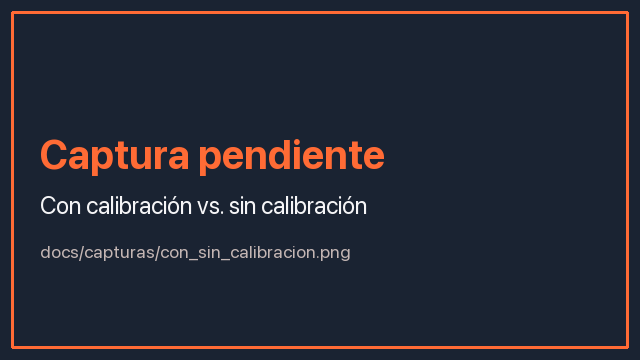
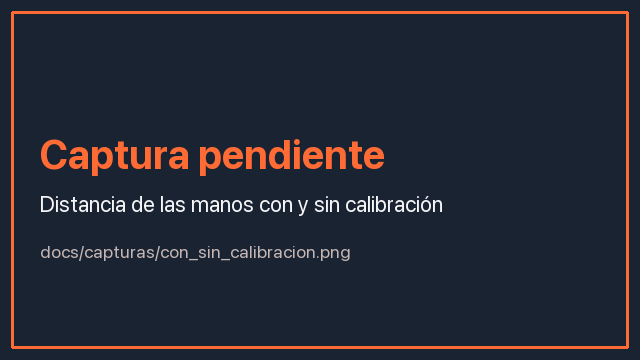
docs: arquitectura, guion del video y capturas para el modo pantalla

Changed region(s): [[0.0625, 0.5194, 0.6875, 0.6111]]

diff --git a/docs/guion_video.md b/docs/guion_video.md
@@ -3,111 +3,103 @@
 **Voley AR – Proyecto final de Visión Artificial · Jorge Enrique Olaya Liévano**
 
 Preparación antes de grabar:
-- Imprime `cancha.pdf` y `tablero.pdf` al 100 %. Ten a mano el tablero pegado en cartón y una regla.
+- Imprime `tablero.pdf` al 100 % y pégalo en cartón. Ten una regla a mano.
+- Consigue un segundo jugador para la partida de dos (o usa el modo contra la IA).
+- Buena luz blanca y mangas largas oscuras.
 - Deja abiertos en VS Code los archivos que se van a mostrar (lista en cada bloque).
-- Ten la UI corriendo (`python app.py`) y el juego listo para lanzar (`python jugar.py`).
-- Graba la pantalla y una toma de la mesa si puedes (con el celular, desde arriba).
+- Ten la UI corriendo (`python app.py`) y el juego listo (`python jugar.py --modo 2j`).
 
 ---
 
 ## 0:00-0:40 · Introducción
 
-**En pantalla:** la cancha impresa sobre la mesa y el juego corriendo unos segundos.
+**En pantalla:** unos segundos de partida de dos jugadores, cada uno en su mitad.
 
-> "Este es Voley AR: un minijuego de voleibol en realidad aumentada sobre la mesa. La cámara reconoce esta cancha
-> impresa por sus marcadores ArUco y dibuja encima la red y un balón en 3D. Juego con mi mano, sin ningún objeto,
-> contra una IA. La idea central es que la calibración de la cámara es indispensable, y que cada tema del curso
-> cumple una función real en el juego."
+> "Este es Voley AR: voleibol en realidad aumentada para dos jugadores frente a una sola cámara web. No hay nada
+> impreso ni ningún objeto: la cancha, la red y el balón se dibujan en la pantalla y lo único real son nuestras manos.
+> Cada tema del curso cumple una función en el juego, y la calibración de la cámara es la que une lo real con lo
+> virtual."
 
 ## 0:40-1:40 · Arquitectura
 
-**En pantalla:** README en GitHub, sección *Arquitectura* (diagrama de capas y del pipeline) y la estructura de carpetas.
+**En pantalla:** README → *Arquitectura* (diagrama de capas y del pipeline) y la estructura de carpetas.
 
-> "El código está en capas. `core` tiene un módulo por tema, todos como funciones puras: entra una imagen y salen
-> una imagen o datos. `juego` tiene la física, la IA y el render. La UI de Gradio y la ventana del juego son dos
-> presentaciones del mismo pipeline: `core/pipeline.py`, función `procesar_frame`."
+> "El código está en capas. `core` tiene un módulo por tema, todos como funciones puras. `juego` tiene la física, las
+> reglas y el render. La UI de Gradio, la ventana de OpenCV y el juego en el navegador son tres presentaciones del mismo
+> pipeline: `core/pipeline.py`, función `procesar_frame`, que procesa una mano por cada mitad de la imagen."
 
-- Mostrar `voleyar/core/pipeline.py` → `procesar_frame` (recorrer las etapas con el cursor).
-- Mencionar la estrategia de ramas: diagrama `gitGraph` del README y `git log --graph --oneline` en la terminal
-  (main, develop, una rama `feature/` por tema, merges `--no-ff`, tag `v1.0.0`).
+- Mostrar `voleyar/core/pipeline.py` → `procesar_frame` y `_procesar_mano`.
+- Mostrar la estrategia de ramas: diagrama `gitGraph` y `git log --graph --oneline` (ramas `feature/` por tema, merges
+  `--no-ff`, tags v1.0.0, v1.1.0 y v2.0.0, y la rama `feature/multijugador`).
 
 ## 1:40-3:00 · Calibración en vivo con el tablero
 
-**En pantalla:** terminal con `python scripts/calibrar_camara.py --cuadro 2.5`.
+**En pantalla:** `python scripts/calibrar_camara.py --cuadro 2.5`.
 
-1. Medir el cuadro del tablero con la regla frente a la cámara (25 mm).
-2. Mover el tablero: mostrar el aviso "Tablero detectado", el contador de vistas y la sugerencia ("inclina el
-   tablero…", "llévalo a la esquina…"). Activar la captura automática con `A`.
-3. Pulsar `C`: mostrar `K`, los coeficientes de distorsión y el **error de reproyección** (< 0.5 px), y la ventana
-   original vs. sin distorsión.
+1. Medir el cuadro con la regla frente a la cámara.
+2. Mover el tablero: el aviso "Tablero detectado", el contador de vistas y la sugerencia. Activar la captura
+   automática con `A`.
+3. Pulsar `C`: mostrar `K`, la distorsión, el **error de reproyección** (< 0.5 px) y la ventana sin distorsión.
 
-> "La calibración de Zhang usa varias vistas del tablero plano para despejar la matriz K y la distorsión. Por eso se
-> piden ángulos variados: vistas paralelas no dicen nada sobre la focal."
-
-**Código a mostrar:** `voleyar/core/calibracion.py` → docstring del módulo (pinhole, intrínsecos/extrínsecos,
-distorsión), `calibrar_camara`, `GestorCapturaCalibracion.sugerencia`, `estimar_pose_cancha` y `pixel_a_mesa`.
+**Código a mostrar:** `voleyar/core/calibracion.py` → docstring (pinhole, intrínsecos/extrínsecos, distorsión),
+`calibrar_camara`, `camara_virtual` y `distancia_por_tamano`.
 
 ## 3:00-3:50 · Con calibración vs. sin calibración
 
-**En pantalla:** UI → pestaña **Calibración → Cancha: con y sin calibración**, con la cámara en vivo sobre la cancha.
+**En pantalla:** UI → **Calibración → Distancia de la mano: con y sin calibración**, con la cámara en vivo y la mano
+abierta.
 
-1. Modo *Ambos*: el contorno naranja (calibrado) cae sobre las líneas impresas; el blanco (sin calibrar) se corre,
-   sobre todo el borde de la red y el balón, que tienen altura.
-2. Señalar la tabla con el error de reproyección de las esquinas ArUco en ambos modos.
-3. Subir el slider de altura del balón: la diferencia crece con la altura.
+> "Sin cancha impresa, ¿para qué la calibración? Para tres cosas: corregir la distorsión, construir la cámara virtual
+> con la que se dibuja la cancha y, sobre todo, medir a qué distancia está cada mano: Z = f por el tamaño de la palma
+> dividido por su tamaño en píxeles. Con la K calibrada la mano está a unos 60 cm; con la K aproximada el juego cree
+> que está a más de 75. Por eso un golpe solo vale si la mano está en su plano de juego."
 
-> "Sin calibrar, solvePnP compensa la K equivocada con una pose falsa: lo plano casi encaja, pero lo que tiene
-> altura flota. Por eso el juego necesita la K de mi cámara."
+- Mostrar la escena de ejemplo (56/61 cm frente a 77/83 cm, con reales de 60/64) y luego tu mano en vivo.
+- Mencionar la subpestaña **Pose con ArUco (demo de la v1)**: `solvePnP` sigue en el código.
 
 ## 3:50-6:30 · Recorrido por los temas (código + UI)
 
-Por cada tema: unos 20-25 s en la UI y unos 5-10 s en el código.
-
-| Tiempo | Pestaña de la UI | Qué mostrar | Archivo / función |
+| Tiempo | Pestaña | Qué mostrar | Archivo / función |
 |---|---|---|---|
-| 3:50 | **Filtros** | Ejemplo *Poca luz*: subir el ruido, comparar gaussiano/mediana/bilateral (tabla de ruido antes/después); Sobel y Canny; escribir un núcleo propio y ver "Diferencia máxima manual vs. filter2D ≈ 1e-6". | `core/filtros.py` → `convolucion_manual` (por qué se voltea el núcleo) |
-| 4:15 | **Histogramas** | Mover el recuadro sobre la palma, ver los histogramas H-S y Cr-Cb y la retroproyección; pulsar "Usar este recuadro como modelo de piel". Ecualización vs. CLAHE con sus histogramas. | `core/histogramas.py` → `calibrar_piel`, `retroproyeccion`, `aplicar_clahe` |
-| 4:40 | **Umbralización** | Rangos HSV vs. YCrCb (tabla de IoU), curva de varianza entre clases con T*, "Otsu manual = OpenCV: coinciden", adaptativo. | `core/umbralizacion.py` → `otsu_manual` |
-| 5:00 | **Morfología** | Ruido sal y pimienta; apertura (componentes: miles → 1); cierre; mosaico de las 5 operaciones; cambiar forma/tamaño del elemento. | `core/morfologia.py` → `limpiar_mascara`, `erosion_manual` |
-| 5:20 | **Segmentación** | Ejemplo *Mano tocando un objeto color piel*: zona por la pose, contornos, corte por la muñeca en la vista cenital, transformada de distancia y watershed separando la mano del objeto. | `core/segmentacion.py` → `zona_busqueda`, `separar_mano_brazo`, `watershed_mano` |
-| 5:45 | **Caracterización** | Ejemplos *Un dedo*, *Dos dedos*, *Puño*: casco convexo, valles, puntas, tabla de descriptores (cm², Hu) y gesto → golpe. Con la cámara en vivo, mostrar la velocidad. | `core/caracterizacion.py` → `analizar_mano`, `descriptores_forma` |
-| 6:10 | **Pipeline** | Los 9 pasos sobre el mismo frame y la tabla de tiempos (~10-15 ms). | `core/pipeline.py` |
+| 3:50 | **Filtros** | Ejemplo *Poca luz*: ruido, gaussiano/mediana/bilateral, Sobel y Canny; un núcleo propio con "Diferencia máxima ≈ 1e-6". | `core/filtros.py` → `convolucion_manual` |
+| 4:15 | **Histogramas** | Recuadro sobre la palma del jugador 1, histogramas H-S y Cr-Cb, retroproyección; "¿De quién es esta piel?" → Jugador 1, luego Jugador 2. CLAHE. | `core/histogramas.py` → `calibrar_piel`, `retroproyeccion` |
+| 4:40 | **Umbralización** | Mitad de cada jugador: rangos HSV vs. YCrCb, curva de Otsu con T*, "coinciden", adaptativo y tabla de IoU. | `core/umbralizacion.py` → `otsu_manual` |
+| 5:00 | **Morfología** | Ruido sal y pimienta → apertura (miles de componentes → pocas), cierre, las 5 operaciones. | `core/morfologia.py` → `limpiar_mascara` |
+| 5:20 | **Segmentación** | Ejemplo *Mano delante de la cara*: mitades, cara de Haar, contorno elegido, corte por la muñeca y watershed separando la mano de la cara. | `core/segmentacion.py` → `detectar_caras`, `separar_de_la_cara`, `separar_mano_brazo` |
+| 5:45 | **Caracterización** | Jugador 1 y 2: casco convexo, valles, puntas, descriptores (cm² con Z/f) y gesto → golpe. | `core/caracterizacion.py` → `analizar_mano` |
+| 6:10 | **Pipeline** | Los 9 pasos sobre el mismo frame y la tabla de tiempos. | `core/pipeline.py` |
 
 ## 6:30-7:30 · Transformers: clásico vs. OWLv2 y profundidad
 
-**En pantalla:** UI → pestaña **Transformers**, con la cámara en vivo.
+**En pantalla:** UI → **Transformers**, con la cámara en vivo y los dos jugadores.
 
-1. Depth Anything: mapa de profundidad y puntaje de altura. Apoyar la mano (verde, "golpe válido") y levantarla
-   (rojo, "mano levantada").
-2. Comparación sobre el mismo frame: caja clásica (naranja) vs. OWLv2 (verde), tabla de latencias (~12 ms vs.
-   ~500 ms), IoU y diferencia en cm.
+1. Depth Anything: mapa de profundidad y, por jugador, "mano delante del cuerpo: golpe válido".
+2. Comparación por mitad: cajas clásicas (naranja) vs. OWLv2 (verde), latencias (~25 ms vs. ~500 ms), IoU y
+   diferencia en cm.
 
-> "Uso los transformers solo en inferencia, con pesos públicos. Depth Anything es lento por frame, así que en el juego
-> corre en un hilo aparte cada 8 frames: la altura de la mano cambia más despacio que su posición. OWLv2 no necesita
-> calibrar la piel, pero es unas 40 veces más lento; por eso el detector principal es el clásico."
+**Código a mostrar:** `core/transformers_models.py` → `mano_delante_de_la_cara` y `estimar_profundidad` (decorador
+`gpu` de `voleyar/entorno.py` para ZeroGPU).
 
-**Código a mostrar:** `core/transformers_models.py` → `mano_cerca_de_mesa` (la fórmula del puntaje) y
-`DetectorManoOWL.detectar`; `juego/asincrono.py` → `TrabajadorAsincrono`.
+## 7:30-9:30 · Partida de dos jugadores con el panel de depuración
 
-## 7:30-9:30 · Partida con el panel de depuración
+**En pantalla:** `python jugar.py --modo 2j`.
 
-**En pantalla:** `python jugar.py` (o el botón de la pestaña **Jugar**).
+1. Calibración de la piel: cada jugador cubre su recuadro naranja y se pulsa `ESPACIO`.
+2. Señalar arriba de cada mitad "midiendo…" → "plano a 60 cm" (la distancia de referencia de cada jugador).
+3. Activar `D`: máscaras (mano blanca, brazo naranja, caras rojas), retroproyección de cada jugador, profundidad,
+   distancias y tiempos.
+4. Jugar un par de puntos: un **remate** con la mano abierta, un **toque** con un dedo. Mostrar un golpe inválido
+   acercando mucho la mano a la cámara (punto rojo).
+5. Pulsar `C`: sin calibración la distancia medida cambia y los golpes empiezan a salir inválidos. Volver a `C`.
+6. Mostrar 20 s del juego en el Space (pestaña **Jugar → En el navegador**).
 
-1. Calibración de la piel: cubrir el recuadro naranja y pulsar `ESPACIO`.
-2. Activar `D`: señalar la máscara de piel (brazo en naranja), la vista cenital con los dedos, el mapa de
-   profundidad, la pose (ejes), los FPS y los tiempos.
-3. Jugar un par de puntos: un **remate** con la mano abierta y un **toque** con un dedo; mostrar el anillo verde del
-   golpe válido y uno rojo levantando la mano.
-4. Pulsar `C` durante la partida: sin calibración la red y el balón se desalinean. Volver a pulsar `C`.
-5. Pulsar `O` unos segundos para jugar con OWLv2 y notar la latencia.
-
-**Código a mostrar (breve):** `juego/partida.py` → `_intentar_golpe` (rayo vs. balón y profundidad),
-`juego/render_ar.py` → `ocluir_con_mano`.
+**Código a mostrar (breve):** `juego/partida.py` → `_intentar_golpe` y `juego/bucle.py` → `_validar`.
 
 ## 9:30-10:00 · Cierre
 
-**En pantalla:** README → *Limitaciones* y *Pruebas* (`pytest` en verde en la terminal).
+**En pantalla:** README → *Limitaciones* y `pytest` en verde.
 
-> "Las pruebas usan escenas sintéticas de verdad conocida: la calibración recupera K, solvePnP la pose, Otsu y la
-> convolución coinciden con OpenCV, los descriptores con scikit-image, y los dedos se cuentan bien. Las limitaciones
-> principales son la luz, las mesas de madera y que la mano no tape todos los marcadores. Gracias."
+> "Las pruebas usan escenas sintéticas de verdad conocida: dos personas a distancias conocidas, caras detectables y
+> cámaras con distorsión. La calibración recupera K, la distancia de la mano sale con ±4 % de error calibrada y con
+> ~30 % sin calibrar. Las limitaciones principales son la luz, la ropa de color piel y que Haar detecta peor las caras
+> de piel oscura. Gracias."

diff --git a/docs/arquitectura.md b/docs/arquitectura.md
@@ -1,4 +1,4 @@
-# Arquitectura de Voley AR
+# Arquitectura de Voley AR (v2, modo pantalla)
 
 Este documento amplía la sección de arquitectura del [README](../README.md): sistemas de coordenadas, flujo de
 datos, concurrencia y las decisiones que se tomaron a partir de las pruebas.
@@ -7,102 +7,121 @@ datos, concurrencia y las decisiones que se tomaron a partir de las pruebas.
 
 | Capa | Paquete | Regla |
 |---|---|---|
-| Presentación | `voleyar/ui`, `voleyar/juego/bucle.py`, `app.py`, `jugar.py` | Maneja eventos, ventanas y widgets. No implementa visión. |
-| Dominio del juego | `voleyar/juego` (`fisica`, `ia_rival`, `partida`, `render_ar`) | Reglas y física en cm. `partida.py` no conoce la cámara. |
+| Presentación | `voleyar/ui`, `voleyar/juego/bucle.py`, `voleyar/juego/navegador.py`, `app.py`, `jugar.py` | Maneja eventos, ventanas y widgets. No implementa visión. |
+| Dominio del juego | `voleyar/juego` (`fisica`, `ia_rival`, `partida`, `render_ar`) | Reglas y física en unidades de la cancha. `partida.py` no conoce la cámara. |
 | Núcleo de visión | `voleyar/core` | Funciones puras: imagen in → imagen/datos out. Sin Gradio ni `imshow`. |
-| Infraestructura | `voleyar/utils` | Cámara, JSON, texto con tildes, escenas sintéticas. |
+| Infraestructura | `voleyar/utils`, `voleyar/entorno.py` | Cámara, JSON, texto con tildes, escenas sintéticas, detección de ZeroGPU. |
 
-La dependencia siempre va hacia abajo. La UI y el juego llaman a la **misma** función,
-`core.pipeline.procesar_frame`, así que lo que se ve en la pestaña Pipeline es lo que usa el juego.
+La dependencia siempre va hacia abajo. La UI, la ventana y el juego del navegador llaman a la **misma** función,
+`core.pipeline.procesar_frame`.
 
 ## 2. Sistemas de coordenadas
 
-- **Mesa** (cm): origen en el centro de la cancha impresa; X hacia el lado rival, Y hacia el borde superior de la
-  hoja y Z hacia arriba. Tu lado es `x < 0` y la red es el plano `x = 0` con `z ∈ [0, 5]`.
-- **Cámara**: `P_c = R P_w + t` (OpenCV: x a la derecha, y hacia abajo, z hacia adelante).
-- **Imagen** (px): `s [u v 1]ᵀ = K P_c`, con distorsión radial/tangencial.
-- **Vista cenital** (px): `u = (X − x_min)·ppcm`, `v = (y_max − Y)·ppcm`, con `ppcm = 10`. Se obtiene con la
-  homografía `H = A · (K [r₁ r₂ t])⁻¹`.
+- **Cámara real** (cm): `x` a la derecha, `y` hacia abajo, `z` hacia adelante. Las manos de los jugadores están a
+  `Z ≈ 50-75 cm`.
+- **Imagen** (px): `s [u v 1]ᵀ = K P_c`, con distorsión radial y tangencial. El pipeline trabaja sobre la imagen ya
+  corregida (`K'`, `d = 0`).
+- **Cancha virtual** (unidades de la cancha de la v1, 25 × 18 con red de 5): `x` de la mitad del jugador 1 (`x < 0`) a
+  la del jugador 2 (`x > 0`), `y` = profundidad (el balón siempre en `y = 0`, el plano de la red) y `z` hacia arriba
+  (piso en `z = 0`).
+- **Cámara virtual:** con la **misma** `K` mira horizontalmente la red desde `y = −D`
+  (`calibracion.camara_virtual`):
+  - `D = f_x · 2L / (0.92 · W)`, para que la cancha ocupe el 92 % del ancho;
+  - altura `h = (0.86·H − c_y) · D / f_y`, para que el piso quede en la fila del 86 %;
+  - desplazamiento lateral `−(W/2 − c_x)·D/f_x`, para que la red quede en la columna central.
 
-Todas las medidas de la cancha viven en `core/config.py` y las usan por igual el generador de PDF, el render
-sintético y la estimación de pose.
+  Así, un píxel de la mano y el balón virtual comparten geometría: el rayo de cada píxel se intersecta con el plano
+  `y = 0`.
 
 ## 3. Flujo de un frame
 
 ```
 frame (1280×720)
  └─ preparar_imagen ── reducción a 960 px; si hay calibración: remap(K, d) → imagen rectificada, K', d = 0
-     └─ detectar_marcadores + estimar_pose_cancha ── 16 esquinas ArUco, IPPE → refinamiento iterativo
-         (si no hay marcadores: se reutiliza la pose anterior hasta 20 frames)
-     └─ preprocesar ── CLAHE en L (Lab) + suavizado gaussiano 5×5
-     └─ zona_busqueda ── casco de la caja de la cancha (12 cm de alto) ∪ franja del brazo
-     └─ retroproyeccion ── √(B_HS · B_CrCb), disco de 7 px, solo dentro de la zona
-     └─ umbral_piel_otsu ── Otsu manual con el histograma de la zona (T ≥ 30)
-     └─ limpiar_mascara ── apertura 5 → cierre 5 → relleno de huecos
-     └─ seleccionar_mano ── componente que entra por la franja del brazo
-     └─ vista_cenital.rectificar ── máscara en cm
-     └─ separar_mano_brazo ── centro y radio de la palma (transformada de distancia), corte a 1.2 r
-         (si queda una región gruesa pegada → watershed y se repite)
-     └─ analizar_mano ── tramos del contorno a > 1.6 r = dedos; casco y defectos; gesto
-     └─ punto de golpe → imagen (H⁻¹) → rayo → ∩ z = 0 (cm); EstimadorVelocidad (cm/s)
+ └─ camara_virtual(K') ── pose de la cámara que encuadra la cancha
+ └─ detectar_caras (cada 3 frames) ── Viola-Jones a 640 px; una cara por mitad (≥ 20 % de la altura);
+     recordar_caras: si se pierde (la mano la tapa) se usa la última vista durante 90 frames
+ └─ preprocesar ── CLAHE en L (Lab) + suavizado gaussiano 5×5
+ └─ por cada mitad (jugador 1 = izquierda, jugador 2 = derecha):
+     ├─ retroproyeccion con la piel de ESE jugador (√(B_HS · B_CrCb), disco de 7 px)
+     ├─ umbral_piel_otsu (Otsu manual con el histograma de la mitad, T ≥ 30)
+     ├─ limpiar_mascara (apertura 5 → cierre 5 → relleno de huecos)
+     ├─ seleccionar_mano_pantalla: se descartan las regiones casi todo-cara; se prefiere la que toca el borde
+     │   inferior (antebrazo)
+     ├─ separar_de_la_cara (si toca una cara): watershed con marcadores cara / picos de la mano
+     ├─ separar_mano_brazo (transformada de distancia, corte a 1.2 r); watershed si queda una región gruesa
+     ├─ analizar_mano: tramos del contorno a > 1.6 r = dedos; casco y defectos; gesto y punto de golpe
+     ├─ distancia_por_tamano: Z = f · 3.5 cm / r_px
+     └─ pixel_a_plano(punto de golpe, cámara virtual) → (x, 0, z); EstimadorVelocidad → (vx, vz)
 ```
 
-`ResultadoFrame` guarda cada resultado intermedio. Así la UI y el panel de depuración los muestran sin recalcular,
-y `tiempos_ms` registra cuánto tardó cada etapa.
+`ResultadoFrame` guarda los resultados comunes (imagen, modelo, cámara virtual, caras, tiempos) y una `ResultadoMano`
+por lado con cada paso intermedio.
 
-## 4. Concurrencia en el juego
+## 4. Del pipeline a la partida
+
+Por cada mano se arma una `EntradaJugador`:
+
+- **rayo:** el rayo de la cámara virtual que pasa por el punto de golpe. La colisión es la distancia 3D entre ese rayo
+  y el centro del balón, menor que `r + 2.6`.
+- **punto y velocidad:** el punto en el plano de la red y su velocidad.
+- **fuerza y gesto:** salen del número de dedos.
+- **valida:** la mano está en el plano de juego. `|Z − Z_ref| ≤ max(10 cm, 25 % · Z_ref)`, donde `Z_ref` es la
+  mediana de las primeras 15 mediciones de ese jugador. Además, si Depth Anything tiene un resultado reciente, la mano
+  debe estar delante de su cara.
+
+`Partida` (modo `2j` o `ia`) solo acepta golpes de cada jugador en su mitad, con un toque por lado. En el saque solo
+golpea quien saca.
+
+## 5. Concurrencia (escritorio)
 
 ```
-hilo principal (≈ 25 FPS)            hilo "profundidad"                 hilo "owl" (tecla O)
-─────────────────────────            ──────────────────                 ────────────────────
-leer frame                           espera tarea
-procesar_frame (≈ 12 ms)
-cada 8 frames: enviar(img, máscaras) ─► Depth Anything (~110 ms)
-partida.actualizar(dt, entrada)        mano_cerca_de_mesa → resultado
-render + HUD                          ◄─ resultado (si edad < 1 s)
-imshow / waitKey
+hilo principal (≈ 20-30 FPS)          hilo "profundidad"                 hilo "owl" (tecla O)
+────────────────────────────          ──────────────────                 ────────────────────
+leer frame
+procesar_frame, 2 manos (≈ 22 ms)
+cada 8 frames: enviar(imagen) ───────► Depth Anything (~110 ms)
+partida.actualizar(dt, J1, J2)         mapa de disparidad
+render + HUD                           ◄─ resultado (si edad < 1 s)
 ```
 
-`TrabajadorAsincrono` acepta una tarea solo si está libre: si el modelo va atrasado se descartan frames en vez de
-acumular retraso. Si un modelo falla (sin internet, sin memoria), el juego sigue sin esa información: `cerca = None`
-cuenta como golpe válido.
+`TrabajadorAsincrono` acepta una tarea solo si está libre, así que nunca se acumula retraso. En el navegador (y en el
+Space) no hay hilos de modelos: cada frame llega por el stream de Gradio y se procesa en el manejador.
 
-## 5. Física y reglas
+## 6. Física y reglas
 
-- Euler semi-implícito en subpasos de 1/240 s. La gravedad de juego es de 140 cm/s², porque con 981 cm/s² una jugada
-  en 25 cm duraría décimas de segundo.
-- Rebote en la mesa con restitución de 0.62 y fricción horizontal de 0.85; en la red, `v_x ← −0.25 v_x`.
-- Golpe: tiro parabólico con un ápice que depende del gesto (remate: 7.5 cm, toque: 15 cm) y un objetivo que depende
-  de la velocidad de la mano. Si la parábola no pasa la red con 1 cm de holgura, se sube el ápice.
-- Colisión mano-balón: distancia 3D entre el **rayo** del punto de golpe y el centro del balón, menor que
-  `r + 2.6 cm`, y el punto más cercano del rayo por debajo de 8 cm. No depende de suponer la altura de la mano.
+- Euler semi-implícito en subpasos de 1/240 s. La gravedad de juego es de 85 unidades/s², más baja que en la v1 para
+  compensar la latencia de la cámara.
+- Rebote en el piso con restitución de 0.6 y fricción de 0.85; en la red, `v_x ← −0.25 v_x`.
+- Golpe: tiro parabólico con un ápice que depende del gesto (remate 7.5, toque 11.5) y un objetivo que depende de la
+  velocidad de la mano. El ápice se sube si la parábola no pasa la red.
 
-## 6. Render AR y oclusión
+## 7. Render AR
 
-- Radio aparente del balón: `f · R / z_c`. Sprite sombreado (Lambert + Blinn-Phong) con caché por radio.
-- Orden balón/red por profundidad: se compara `z_c` del balón con la de la red a su misma altura.
-- Oclusión por la mano: para cada píxel de la mano se calcula la profundidad del plano `z = 1.5 cm` en ese rayo y se
-  compara con la del balón (constante) y la de la red (plano `x = 0`). Donde la mano está delante, se devuelven los
-  píxeles reales.
-
-## 7. Calibración y resolución
-
-`config/camara.json` guarda `K`, `dist`, el ancho, el alto, el error RMS, el número de vistas y el tamaño del cuadro.
-`ModeloCamara.escalar_a` adapta `K` si el frame tiene otra resolución con la **misma** relación de aspecto. Por eso
-conviene calibrar con `scripts/calibrar_camara.py`, que captura igual que el juego. En la UI, la cámara del navegador
-pide 1280×720 con `WebcamOptions(mirror=False)`; una imagen en espejo invertiría la geometría.
+- **Piso:** el plano `z = 0` en perspectiva, con `|y| ≤ 3`, una mitad por jugador y líneas blancas.
+- **Red:** el plano `x = 0` se ve de canto desde la cámara virtual, así que se dibuja una franja de malla frontal
+  (`|x| ≤ 0.6`) con postes y banda superior.
+- **Balón:** sprite sombreado (Lambert + Blinn-Phong) de radio `f · R / z_c`, con sombra en el piso que se difumina con
+  la altura.
 
 ## 8. Rendimiento medido (escenas sintéticas, Apple Silicon)
 
 | Etapa | ms |
 |---|---|
 | Corrección de distorsión (remap, 960 px) | ~1-6 |
-| ArUco + solvePnP | ~1-4 |
+| Caras (Haar a 640 px, cada 3 frames) | ~5 |
 | CLAHE + suavizado | ~1-11 |
-| Retroproyección + Otsu | ~3-9 |
-| Morfología | ~1-2 |
-| Segmentación (incluye vista cenital) | ~1-18 |
-| Caracterización | ~1-5 |
-| **Pipeline completo** | **≈ 10-15** en el juego |
+| Una mano (piel → dedos → distancia) | ~9-10 |
+| **Pipeline completo, 2 manos** | **≈ 20-25** |
 | Depth Anything V2 Small (MPS) | ≈ 110 |
 | OWLv2 base (MPS) | ≈ 400-600 |
+
+## 9. Precisión medida (escenas sintéticas)
+
+| Medida | Resultado |
+|---|---|
+| Distancia de la mano, con calibración | error de -4 % a +4 % (60-79 cm) |
+| Distancia de la mano, sin calibración | ~+30 % (77 cm para una mano a 60) |
+| Conteo de dedos, ejemplos de la UI | 12/13 (falla con la mano sobre la cara) |
+| Conteo de dedos, barrido 0-5 dedos a 60-79 cm | 19/24 (4 de los 5 fallos a 79 cm) |
+| Mano tocando la cara | Z = 64 cm (real 60) con watershed |

diff --git a/docs/capturas/README.md b/docs/capturas/README.md
@@ -5,8 +5,8 @@ capturas reales:
 
 | Archivo | Qué capturar |
 |---|---|
-| `juego_depuracion.png` | `python jugar.py` en plena partida con el panel de depuración activado (tecla `D`). |
-| `con_sin_calibracion.png` | UI → Calibración → *Cancha: con y sin calibración*, modo *Ambos*, con la cámara en vivo. |
+| `juego_depuracion.png` | `python jugar.py --modo 2j` en plena partida de dos jugadores con el panel de depuración (tecla `D`). |
+| `con_sin_calibracion.png` | UI → Calibración → *Distancia de la mano: con y sin calibración*, con la cámara en vivo. |
 | `ui_pipeline.png` | UI → pestaña Pipeline con un frame de la cámara. |
 | `ui_transformers.png` | UI → pestaña Transformers: profundidad y comparación clásico vs. OWLv2. |
 
